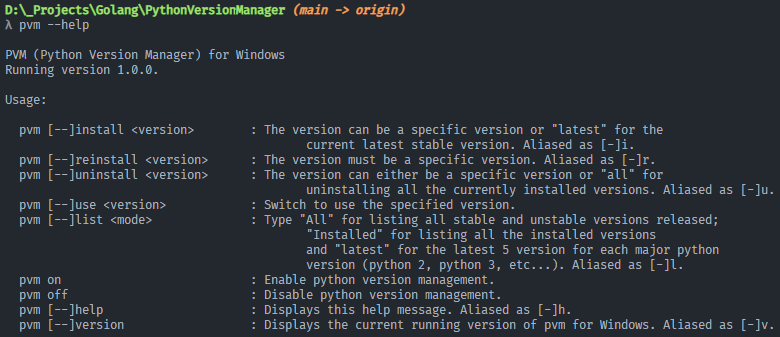
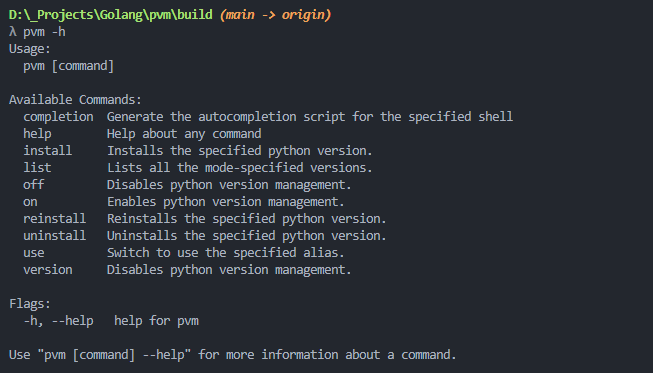
Updated README
Docs: Removed `Commands` section
Docs: Updated screenshot
Feat: Added bash build script

Changed region(s): [[0.0, 0.0, 1.0, 0.9792]]

diff --git a/README.md b/README.md
@@ -11,16 +11,6 @@ Python Version Manager (PVM for short) is a project that has been inspired by [n
 - [How to use](#how-to-use)
 	- [Install](#install)
 	- [Uninstall](#uninstall)
-	- [Commands](#commands)
-		- [install](#install-1)
-		- [reinstall](#reinstall)
-		- [uninstall](#uninstall-1)
-		- [use](#use)
-		- [list](#list)
-		- [on](#on)
-		- [off](#off)
-		- [help](#help)
-		- [version](#version)
 - [Developing](#developing)
 	- [Get started](#get-started)
 - [FAQ](#faq)
@@ -56,82 +46,6 @@ It's basically the same process as the installation one:
 7. (optional) Please let me know why you decided to uninstall pvm: fill [this form](https://github.com/Relepega/PythonVersionManager/issues/new) and i'll be here to read your struggles with pvm.
 
 Please keep in mind that you must uninstall the app for each user you want to use it with. 
-
-## Commands
-
-Here's a description of each command supported by the application:
-
-### install
-
-Installs the requested version. If you type the wrong version nothing will happen.
-
-`$ pvm install latest` Installs the latest stable python version (currently it is 3.11.3).
-
-`$ pvm install 3.11.0` Installs python 3.11.0.
-
-Aliases: `install`, `--install`, `i`, `-i`
-
-### reinstall
-
-Uninstalls and then installs the specified version again. If you type the wrong version nothing will happen.
-
-`$ pvm reinstall all` Reinstalls ALL the installed python versions.
-
-`$ pvm reinstall 3.11.0` Reinstalls python 3.11.0.
-
-Aliases: `reinstall`, `--reinstall`, `r`, `-r`
-
-### uninstall
-
-Uninstalls the specified version. If you type the wrong version nothing will happen.
-
-`$ pvm uninstall all` Uninstalls ALL the installed python versions. Be careful with this one...
-
-`$ pvm uninstall 3.11.0` Unistalls python 3.11.0.
-
-Aliases: `uninstall`, `--uninstall`, `u`, `-u`
-
-### use
-
-No alias for this one.
-
-If already downloaded, it activates the requested version.
-
-`$ pvm use 3.11.0`
-
-Aliases: `use`, `--use`
-
-### list
-
-Displays the requested info to the user.
-
-`$ pvm list latest` lists all the latest python releases.
-
-`$ pvm list all` lists all the available python versions.
-
-`$ pvm list installed` lists all the currently installed versions.
-
-Aliases: `list`, `--list`, `l`, `-l`
-
-### on
-
-`$ pvm on` Activates managed versions.
-
-### off
-
-`$ pvm off` Deactivates managed versions.
-
-### help
-
-Shows in the console what is written here. You can see it in action in the image [here](#python-version-manager).
-
-Aliases: `help`, `--help`, `h`, `-h`
-
-### version
-
-Shows in the console the debug info of the app.
-
-Aliases: `version`, `--version`, `v`, `-v`
 
 # Developing
 
